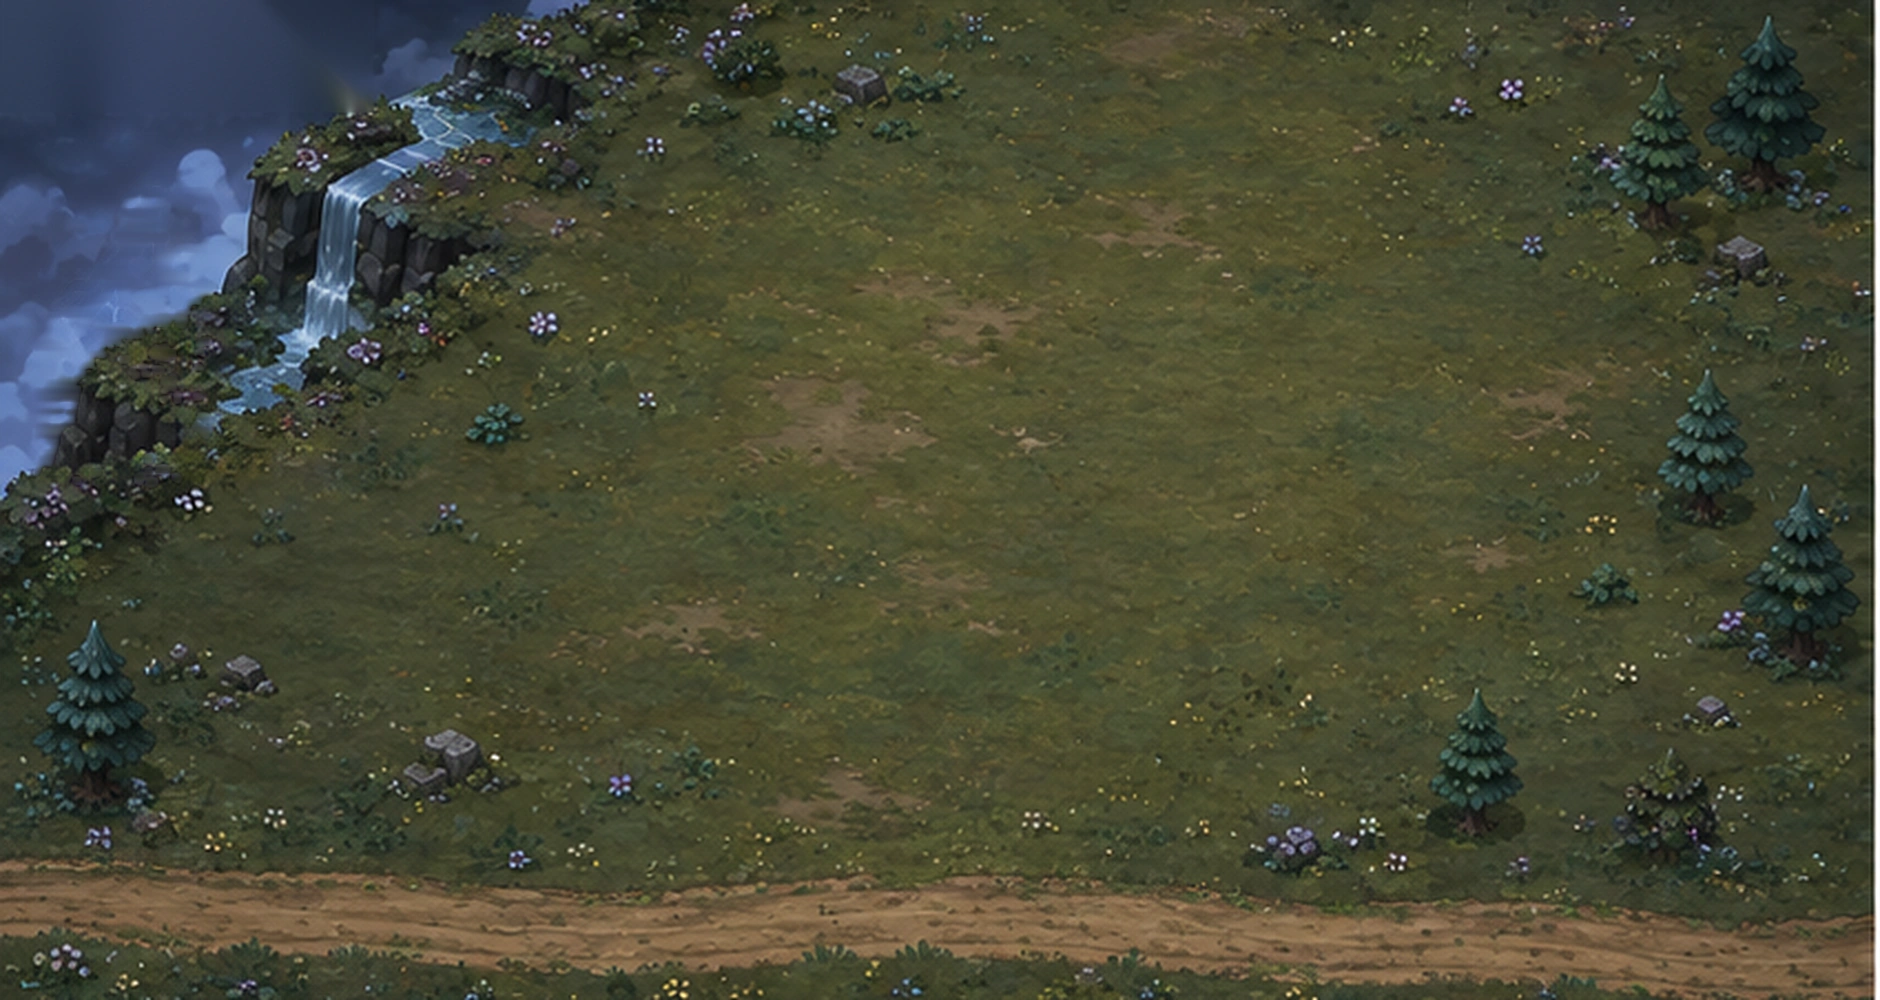
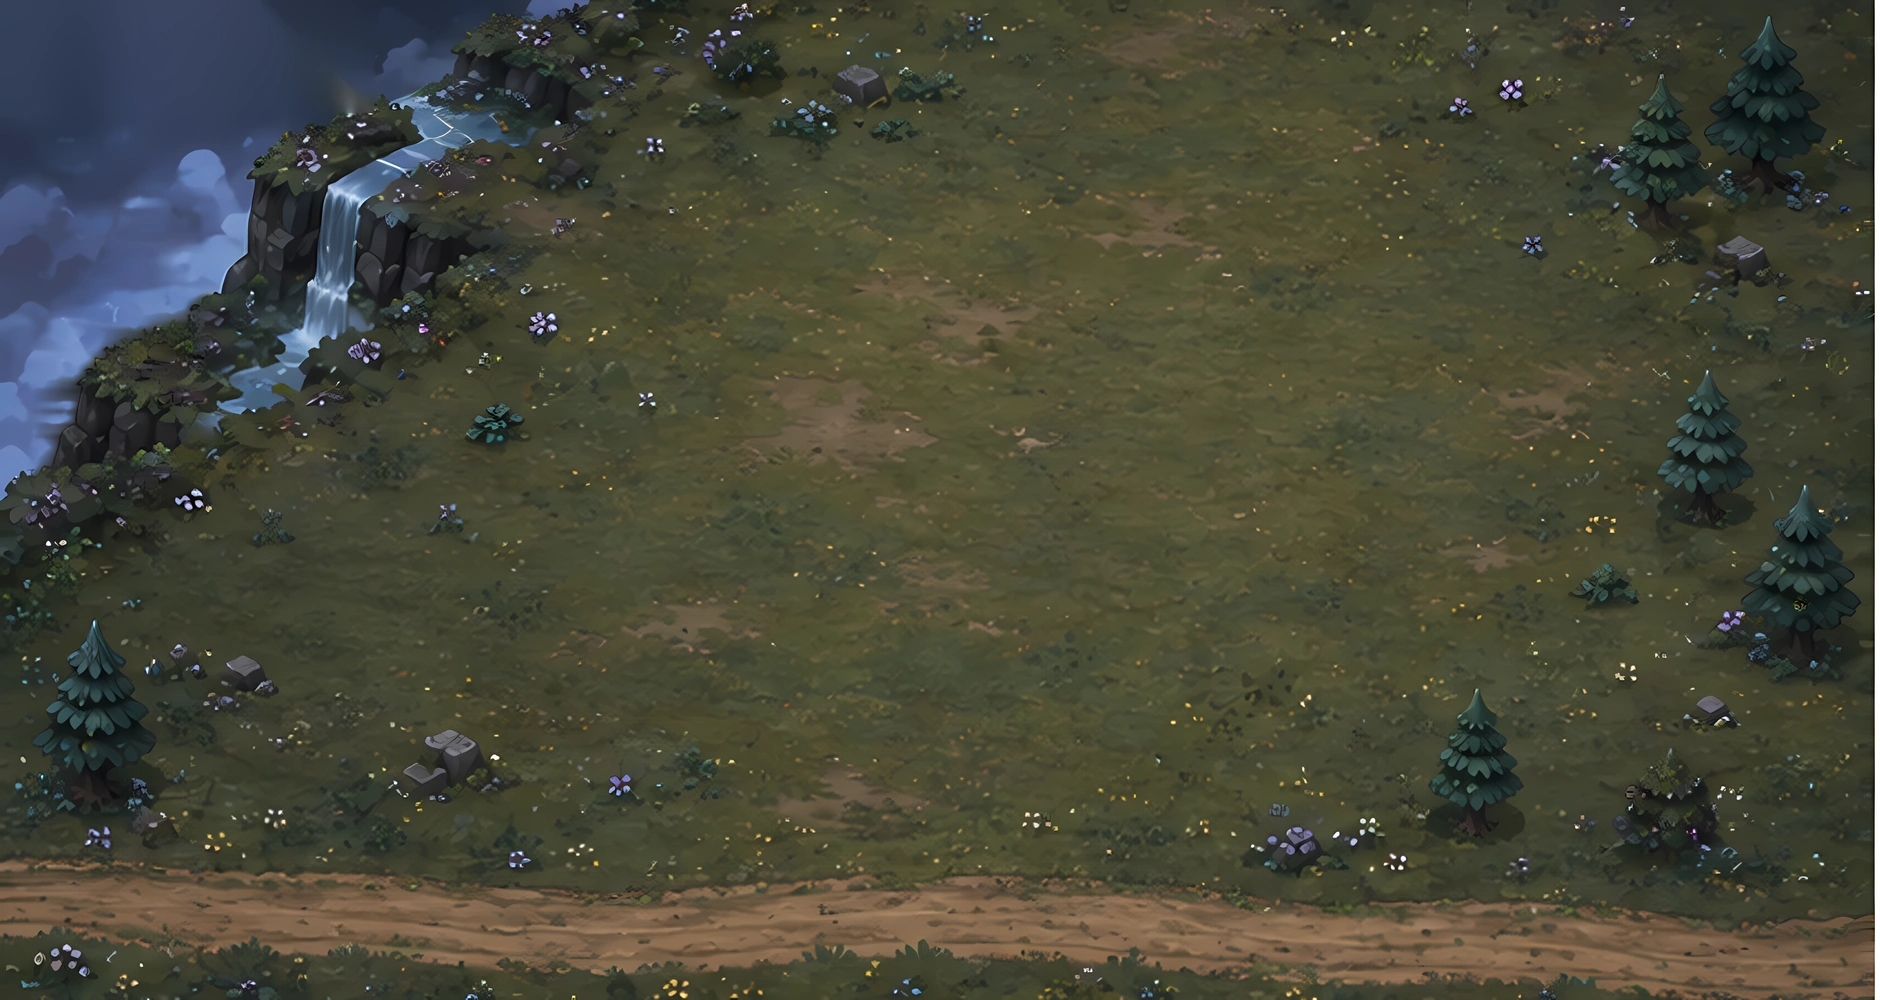
🔬🧱 배경 HD 재응축 (Real-ESRGAN) + 광석방 통짜 돌담 (wall_ore)
배경: 다른 요소는 다 선명해졌는데 배경만 원본과 화면이 1:1이라 한계 (유저 리포트)
→ 원본 4장을 Real-ESRGAN(x4plus-anime)로 4배 업스케일 후 1880×1000으로 Lanczos
재응축 = AI 생성 노이즈(옅은 모자이크) 제거 + 가장자리 선명화. src ?v=3.
HD 원본 보존 = DPD_backgrounds_revised\bg_*_hd.png

돌담: 요청서 2호 wall_ore 통합 — 키잉 추출(847×658, 21KB), 안뜰(79,71,675×497)
→ ROOM 매핑 kx0.290/ky0.302, 입구 실측 논리 y60~141 = ROOM_GATE(60~140) 정확 일치.
anyIn 어둡힘은 source-atop 틴트로 대응, 베이크 여백 26/34/30/30 확장, WALL_ORE_ON 스위치

diff --git a/index.html b/index.html
@@ -3620,7 +3620,7 @@ const BGFULL = { easy: null, normal: null, hard: null, hell: null };
   ['easy', 'normal', 'hard', 'hell'].forEach((k, i) => {
     const im = new Image();
     im.onload = () => { BGFULL[k] = im; setTimeout(() => { try { bgFullBaked(k); bgFallPrep(k); } catch (e) {} }, 120 + i * 160); }; // 미리 선명화 베이크+폭포 마스크 (첫 프레임 히치 방지)
-    im.src = 'assets/bg_' + k + '.webp?v=2'; // v=2: 08-10 재인코딩(q95)+normal 얼룩·hard 번개 패치 — 쿼리로 구캐시 즉시 무효화
+    im.src = 'assets/bg_' + k + '.webp?v=3'; // v=3: 08-10 Real-ESRGAN(x4 anime) 업스케일→1880 재응축 — AI 생성 노이즈 제거+가장자리 선명화. 쿼리로 구캐시 즉시 무효화
   });
 })();
 let bgFullKeyDrawn = null; // 이번 프레임 지면으로 그린 풀맵 키 (null = 풀맵 미사용) — sbGround가 매 프레임 갱신
@@ -5335,7 +5335,7 @@ function drawOreRoom() {
   const R = ROOM, x0 = R.cx - R.w / 2, y0 = R.cy - R.h / 2;
   const anyIn = S.units.some(u => !u.miner && isInRoom(u));
   // 담장은 (입장 여부 × 아트 여부)로만 변하는 정적 그림 — 베이크. 광석·게이지·라벨은 아래에서 라이브
-  bakedLayer('oreWall|' + (anyIn ? 1 : 0) + (artSp('wall') ? 'a' : 'v'), x0 - 18, y0 - 34, R.w + 36, R.h + 56, () => drawOreWalls(anyIn));
+  bakedLayer('oreWall|' + (anyIn ? 1 : 0) + (WALLART.img ? 'w' : artSp('wall') ? 'a' : 'v'), x0 - 26, y0 - 34, R.w + 56, R.h + 64, () => drawOreWalls(anyIn)); // 여백 26/34/30/30 — 통짜 돌담 돌출분 실측 커버
   const ore = ORES[Math.min(9, S.hunt.stage - 1)];
   const ox = OREPOS.x, oy = OREPOS.y;
   if (S.hunt.done) {
@@ -5360,11 +5360,27 @@ function drawOreRoom() {
   drawLabel(S.hunt.done ? '광석 방 (완료)' : `${S.hunt.stage}단계: ${ore.name} · ⛏ ${nMine}/${oreCap()}`, R.cx, y0 - 5, 11);
   ctx.textAlign = 'left';
 }
+// 🧱 통짜 입체 돌담 아트 (2026-08-10 유저 GPT 제작): 안뜰 사각 매핑, 입구(좌벽 y60~141)가 ROOM_GATE(60~140)와 실측 일치
+const WALL_ORE_ON = true;
+const WALLART = { img: null, meta: { w: 847, h: 658, hx: 79, hy: 71, hw: 675, hh: 497 } };
+if (WALL_ORE_ON) { const wim = new Image(); wim.onload = () => { WALLART.img = wim; }; wim.src = 'assets/wall_ore.webp?v=1'; }
 function drawOreWalls(anyIn) {
   const R = ROOM, x0 = R.cx - R.w / 2, y0 = R.cy - R.h / 2;
   // 🧱 벽돌 담장 (내부는 배경이 그대로 비친다 — 지옥·폭풍 배경과도 자연스럽게 어울림). 왼쪽 벽 가운데가 입구
   const BW = 8, gateY0 = R.cy - ROOM_GATE, gateY1 = R.cy + ROOM_GATE; // 담 두께 / 입구 구간 (충돌 판정과 공유)
   ctx.fillStyle = 'rgba(250,245,232,0.10)'; ctx.fillRect(x0, y0, R.w, R.h); // 내부: 아주 옅은 밝음 (게이지 가독용)
+  const wp = WALLART.img;
+  if (wp) { // 🧱 통짜 돌담 (타일 짜집기 폴백은 아래 잔존)
+    const m = WALLART.meta, kx = R.w / m.hw, ky = R.h / m.hh;
+    ctx.drawImage(wp, x0 - m.hx * kx, y0 - m.hy * ky, m.w * kx, m.h * ky);
+    if (anyIn) { // 입장 중 어둡힘 (기존 벽돌 몰탈색 변화 대응) — 그려진 픽셀만 틴트
+      ctx.globalCompositeOperation = 'source-atop';
+      ctx.fillStyle = 'rgba(60,40,20,0.16)';
+      ctx.fillRect(x0 - m.hx * kx, y0 - m.hy * ky, m.w * kx, m.h * ky);
+      ctx.globalCompositeOperation = 'source-over';
+    }
+    return;
+  }
   const ws = artSp('wall');
   const brick = ws ? (bx, by, horiz, len) => { // 🎨 돌담 블록: 변 길이를 정수 개수로 나눠 딱 맞게 (끊김·삐침 없음)
     const wh = 24;
